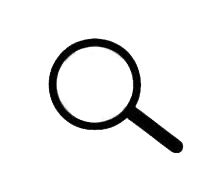
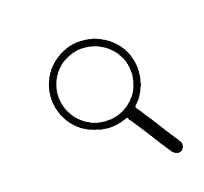
made navbar

diff --git a/index.html b/index.html
@@ -7,14 +7,14 @@
     <script src="https://cdn.tailwindcss.com"></script>
 </head>
 <body>
-    <div class="w-full bg-black h-[100vh]">
-        <div class="h-[8vh] bg-purple-100 justify-center items-center flex" >
-            <div>
+    <div class="w-full bg-[#DFF2EB] h-[100vh]">
+        <div class="h-[8vh] bg-[#7AB2D3] justify-center items-center flex" >
+            <div class="justify-center items-center flex gap-2">
                <div>
-                <input/>
+                <input type="text" placeholder="Theme" class="p-2 rounded-md  border-2"/>
                </div> 
                <div>
-                <img />
+                <img src="search.png" height="30px" width="30px"/>
                </div>
             </div>
         </div>
